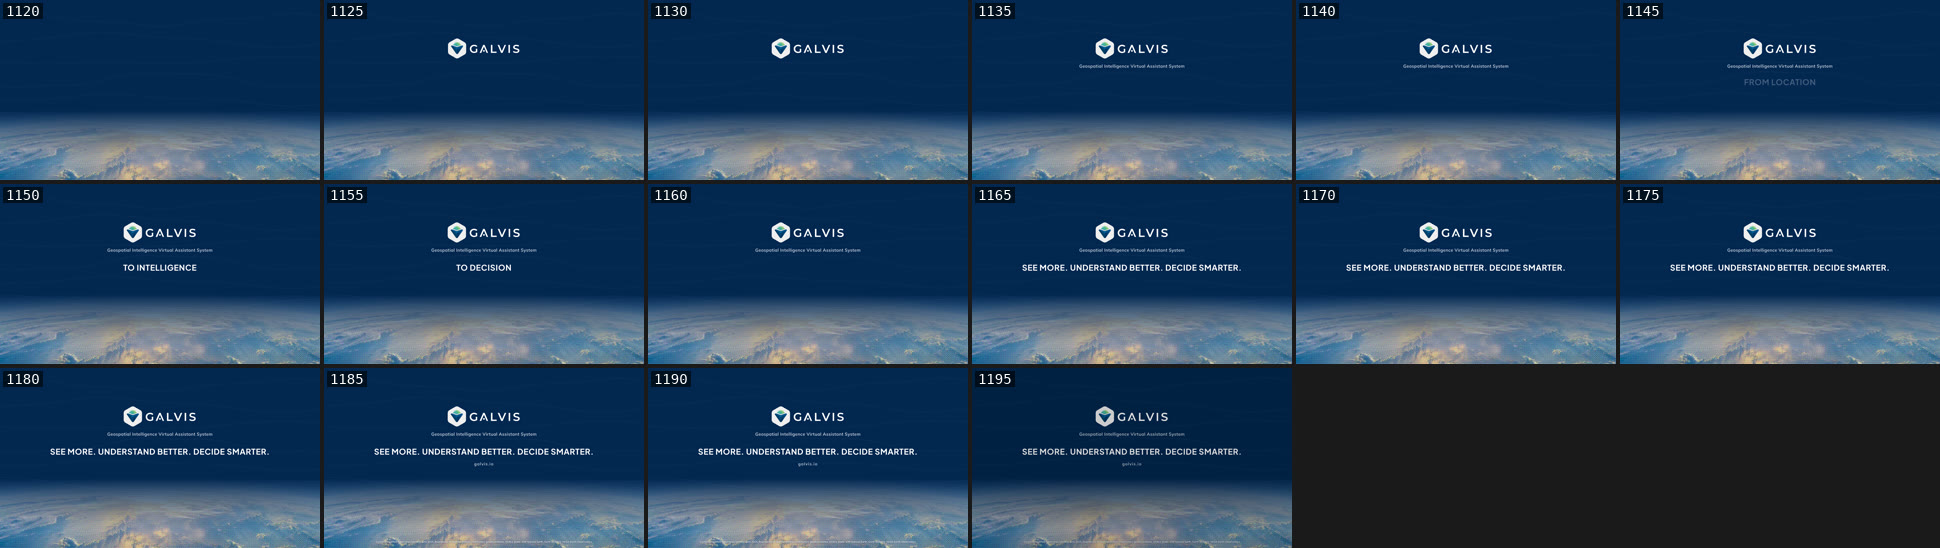
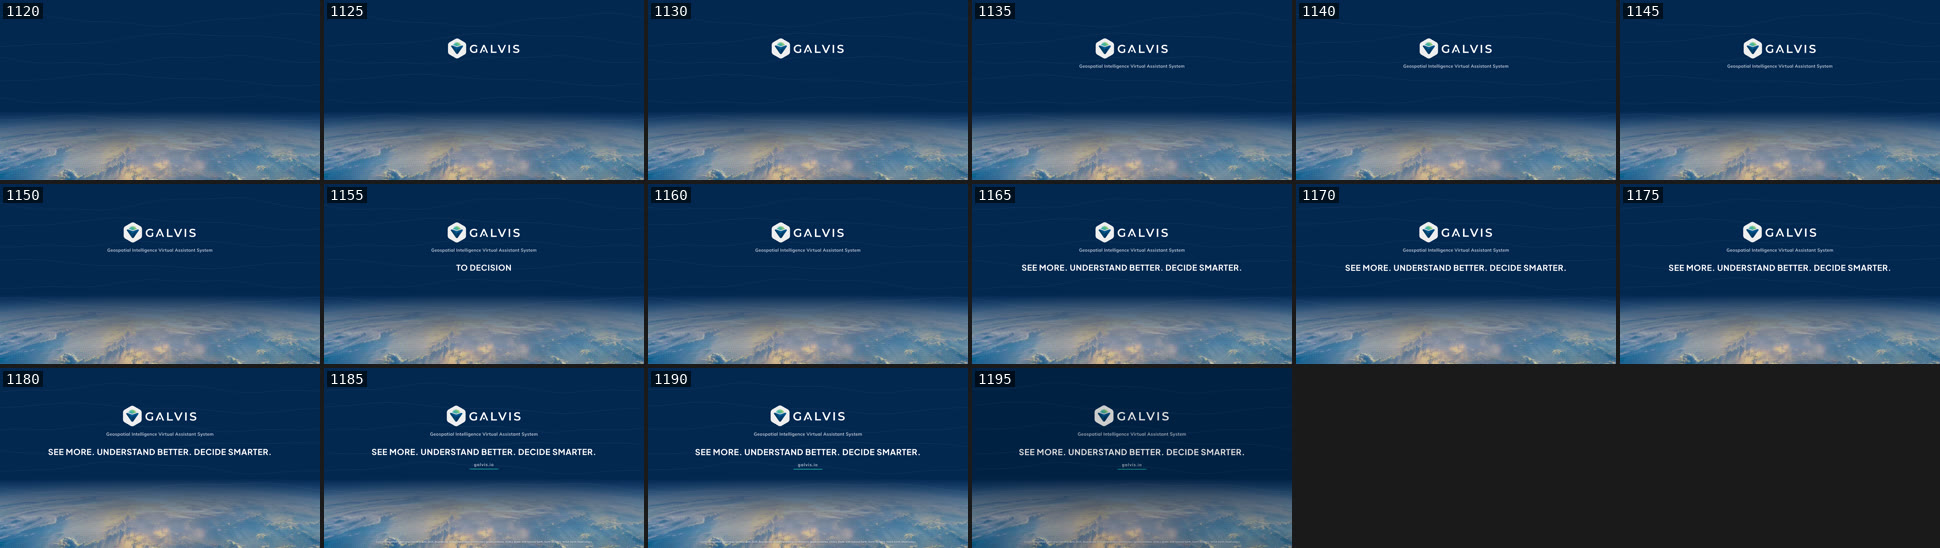
feat(galvis-film): full animation act 10
Contours morph from time; the dawn is lightly dithered and keeps rising; the
three phrases land one per beat; galvis.io gets a drawn underline; a slow push
on the lockup into the fade.

Claude-Session: https://claude.ai/code/session_0187RN5xC2Ne3Dptw6LeZ6Ei

diff --git a/projects/galvis-launch-film/compositions/10-final.html b/projects/galvis-launch-film/compositions/10-final.html
@@ -24,6 +24,8 @@
           font-family: var(--font-text); font-weight: 600; font-size: 15px; color: var(--white);
           text-shadow: 0 1px 6px rgba(3, 39, 80, 0.9);
         }
+        #act10-final-lockup { position: absolute; inset: 0; transform-origin: 960px 420px; }
+        #act10-final-underline { position: absolute; left: 875px; top: 600px; width: 170px; height: 4px; border-radius: 2px; background: var(--teal); transform-origin: 50% 50%; }
         #act10-final-url {
           position: absolute; left: 0; right: 0; top: 560px; text-align: center;
           font-family: var(--font-text); font-weight: 600; font-size: 24px; letter-spacing: 0.12em; color: var(--cool-gray);
@@ -48,12 +50,15 @@
       <div id="act10-final-root" data-composition-id="act10-final" data-width="1920" data-height="1080">
         <div id="act10-final-dawn"></div>
         <svg id="act10-final-contours" viewBox="0 0 1920 1080" data-layout-allow-overflow></svg>
+        <div id="act10-final-lockup">
         <div id="act10-final-logo"></div>
         <div id="act10-final-sweep"></div>
         <div id="act10-final-full"></div>
         <div id="act10-final-chain"></div>
         <div id="act10-final-tagline"></div>
         <div id="act10-final-url"></div>
+        <i id="act10-final-underline"></i>
+        </div>
         <div id="act10-final-credits"></div>
         <div id="act10-final-black"></div>
       </div>
@@ -67,19 +72,31 @@
           $('credits').textContent = GV.COPY['final.credits'];
           $('logo').innerHTML = GV.WORDMARK_DARK.replace(/id="([^"]+)"/g, `id="${id}-$1"`).replace(/url\(#([^)]+)\)/g, `url(#${id}-$1)`);
 
-          // Soft topographic contours: seeded sine stacks, 8% white.
+          // Soft topographic contours (noise-contour-etch, #476): seeded sine stacks whose phases drift with
+          // time, so the lines change shape rather than slide.
           const rnd = GV.seeded(10);
-          const lines = [];
-          for (let k = 0; k < 7; k++) {
-            const y0 = 120 + k * 120, amp = 18 + rnd() * 26, f = 0.002 + rnd() * 0.002, ph = rnd() * 6.28;
+          const contourDefs = Array.from({ length: 7 }, (_, k) => ({ y0: 120 + k * 120, amp: 18 + rnd() * 26, f: 0.002 + rnd() * 0.002, ph: rnd() * 6.28, sp: 0.35 + rnd() * 0.3 }));
+          $('contours').innerHTML = contourDefs.map(() => '<path fill="none" stroke="#FFFFFF" stroke-opacity="0.12" stroke-width="1.5"/>').join('');
+          const contourPaths = [...$('contours').querySelectorAll('path')];
+          const drawContours = (t) => contourDefs.forEach(({ y0, amp, f, ph, sp }, k) => {
             let d = '';
-            for (let x = -20; x <= 1940; x += 20) d += `${x === -20 ? 'M' : 'L'}${x} ${(y0 + amp * Math.sin(x * f + ph) + 8 * Math.sin(x * f * 3.1 + ph * 2)).toFixed(1)} `;
-            lines.push(`<path d="${d}" fill="none" stroke="#FFFFFF" stroke-opacity="0.08" stroke-width="1.5"/>`);
-          }
-          $('contours').innerHTML = lines.join('');
+            const p = ph + t * sp, a = amp * (1 + 0.25 * Math.sin(t * 0.7 + k));
+            for (let x = -20; x <= 1940; x += 20) d += `${x === -20 ? 'M' : 'L'}${x} ${(y0 + a * Math.sin(x * f + p) + 8 * Math.sin(x * f * 3.1 + p * 2)).toFixed(1)} `;
+            contourPaths[k].setAttribute('d', d);
+          });
+          const clock = { t: 0 };
+          tl.to(clock, { t: 8, duration: 8, ease: 'none', onUpdate: () => { drawContours(clock.t); dawnAt(clock.t); } }, 0);
+          drawContours(0);
 
-          const dawn = await GV.ditheredCanvas('assets/earth/dawn.png', 1920, 420, { palette: 'landing', cell: 3, crop: [0, 0.32, 1, 0.42] });
+          // Dawn earth, lightly dithered (spec: "ber-dither tipis"), screen-locked.
+          const dawn = await GV.ditheredCanvas('assets/earth/dawn.png', 1920, 420, { palette: 'landing', cell: 3, resolve: 0.15, crop: [0, 0.32, 1, 0.42] });
           $('dawn').append(dawn);
+          // The sun keeps rising under the lockup: the dawn resolves from 0.15 to 0.45 across the act (redrawn).
+          let lastDawn = 0.15;
+          const dawnAt = (t) => {
+            const r = 0.15 + 0.3 * Math.min(1, t / 7.2);
+            if (Math.abs(r - lastDawn) > 0.004) { dawn.layer.set({ resolve: r }); dawn.layer.draw(); lastDawn = r; }
+          };
 
           $('full').textContent = GV.COPY['reveal.full'];
           const phrases = GV.COPY['final.chain'].map((text) => {
@@ -98,23 +115,28 @@
           tl.set($('sweep'), { opacity: 1 }, A(57) + 0.3);
           tl.to($('sweep'), { backgroundPosition: '0% 0', duration: 0.8, ease: 'power1.inOut' }, A(57) + 0.3);
           tl.set($('sweep'), { opacity: 0 }, A(57) + 1.1);
-          const rise = { opacity: 1, y: 0, duration: 0.5, ease: 'power3.out' };
+          const rise = { opacity: 1, y: 0, duration: 0.5, ease: 'expo.out' };
           gsap.set([$('full'), $('tagline'), $('url'), $('credits'), ...phrases], { opacity: 0, y: 16 });
           tl.to($('full'), rise, A(57, 2));
 
-          // Bar 58: from location, to intelligence, to decision, 0.6 s apart. Bar 59: the tagline.
+          // Bar 58: from location, to intelligence, to decision, one per beat. Bar 59: the tagline.
           phrases.forEach((el, i) => {
-            const t = A(58) + i * 0.6;
+            const t = A(58, i);
             tl.to(el, { ...rise, duration: 0.3 }, t);
-            tl.to(el, { opacity: 0, y: -12, duration: 0.2 }, i < phrases.length - 1 ? t + 0.6 - 0.2 : A(59) - 0.2);
+            tl.to(el, { opacity: 0, y: -12, duration: 0.15 }, i < phrases.length - 1 ? t + 0.5 - 0.15 : A(59) - 0.2);
           });
           tl.to($('tagline'), rise, A(59));
 
           // Bar 60: address and credits, then everything goes to black from 119.2 s.
           tl.to([$('url'), $('credits')], { ...rise, stagger: 0.15 }, A(60));
+          // The address gets a teal underline drawn out from the centre on the beat.
+          gsap.set($('underline'), { scaleX: 0 });
+          tl.to($('underline'), { scaleX: 1, duration: 0.4, ease: 'expo.out' }, A(60));
+          // A slow push on the whole lockup through the last two bars.
+          tl.fromTo($('lockup'), { scale: 1 }, { scale: 1.03, duration: A(60, 2) + 0.2 - A(59), ease: 'none', immediateRender: false }, A(59));
           gsap.set($('black'), { opacity: 0 });
           tl.to($('black'), { opacity: 1, duration: 0.8, ease: 'power1.in' }, A(60, 2) + 0.2);
-          tl.to($('contours'), { y: -24, duration: 8, ease: 'none' }, 0);
+
         }, 8);
       </script>
     </template>

diff --git a/projects/galvis-launch-film/shared/gv.js b/projects/galvis-launch-film/shared/gv.js
@@ -397,7 +397,13 @@ var GV = (() => {
       { t: 110, act: "act09-reunify", what: "map network lights up", box: [550, 170, 600, 400] },
       { t: 110.25, act: "act09-reunify", what: "ONE CORE.", box: [740, 845, 440, 80] },
       { t: 110.75, act: "act09-reunify", what: "second line", box: [460, 946, 1e3, 36] },
-      { t: 112, act: "act10-final", what: "sting", box: [0, 0, 1920, 1080] }
+      { t: 112, act: "act10-final", what: "sting", box: [0, 0, 1920, 1080] },
+      { t: 113, act: "act10-final", what: "full name", box: [640, 380, 640, 32] },
+      { t: 114, act: "act10-final", what: "FROM LOCATION", box: [560, 470, 800, 64] },
+      { t: 114.5, act: "act10-final", what: "TO INTELLIGENCE", box: [560, 470, 800, 64] },
+      { t: 115, act: "act10-final", what: "TO DECISION", box: [560, 470, 800, 64] },
+      { t: 116, act: "act10-final", what: "tagline", box: [300, 470, 1320, 64] },
+      { t: 118, act: "act10-final", what: "galvis.io", box: [880, 570, 160, 40] }
     ]
   };
 
